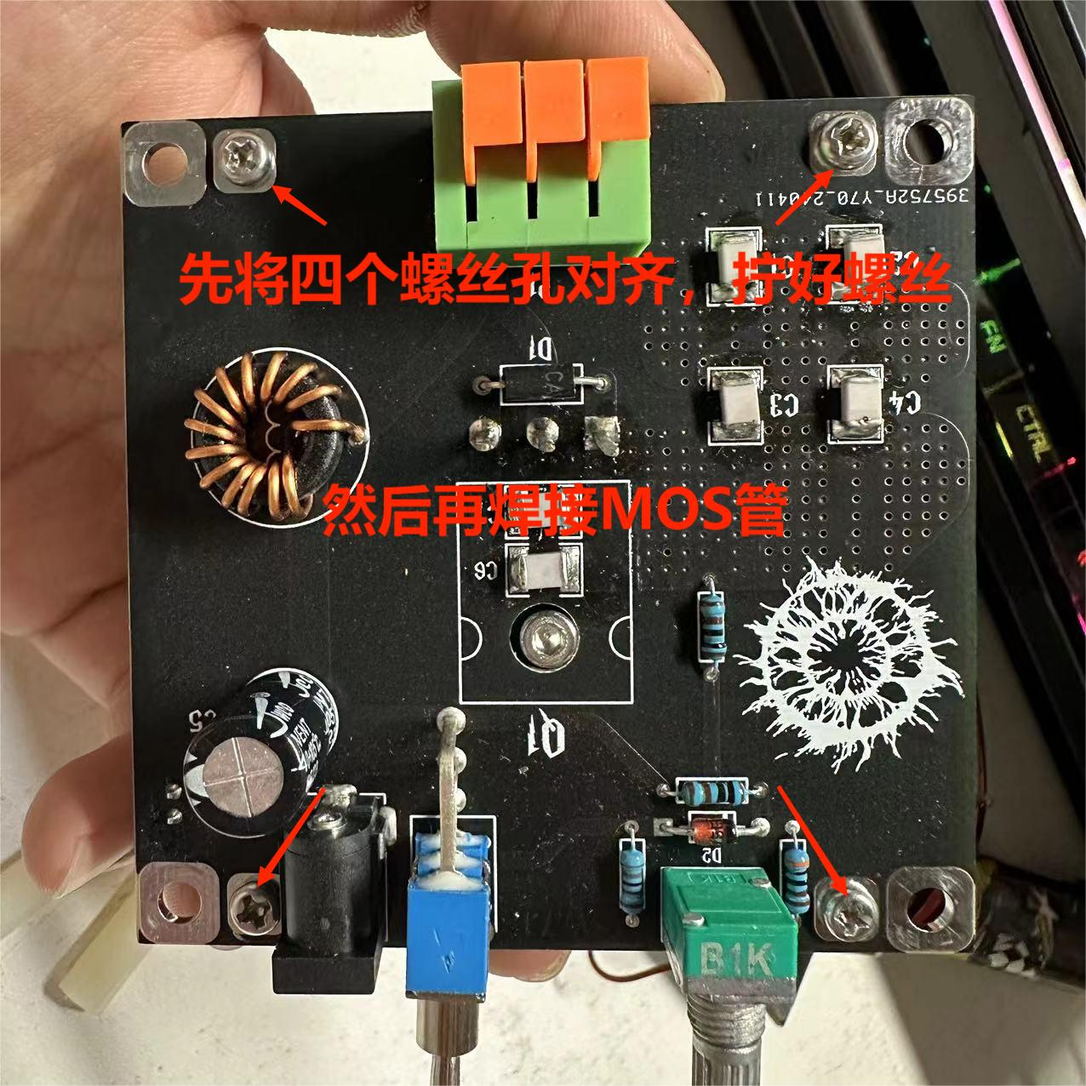
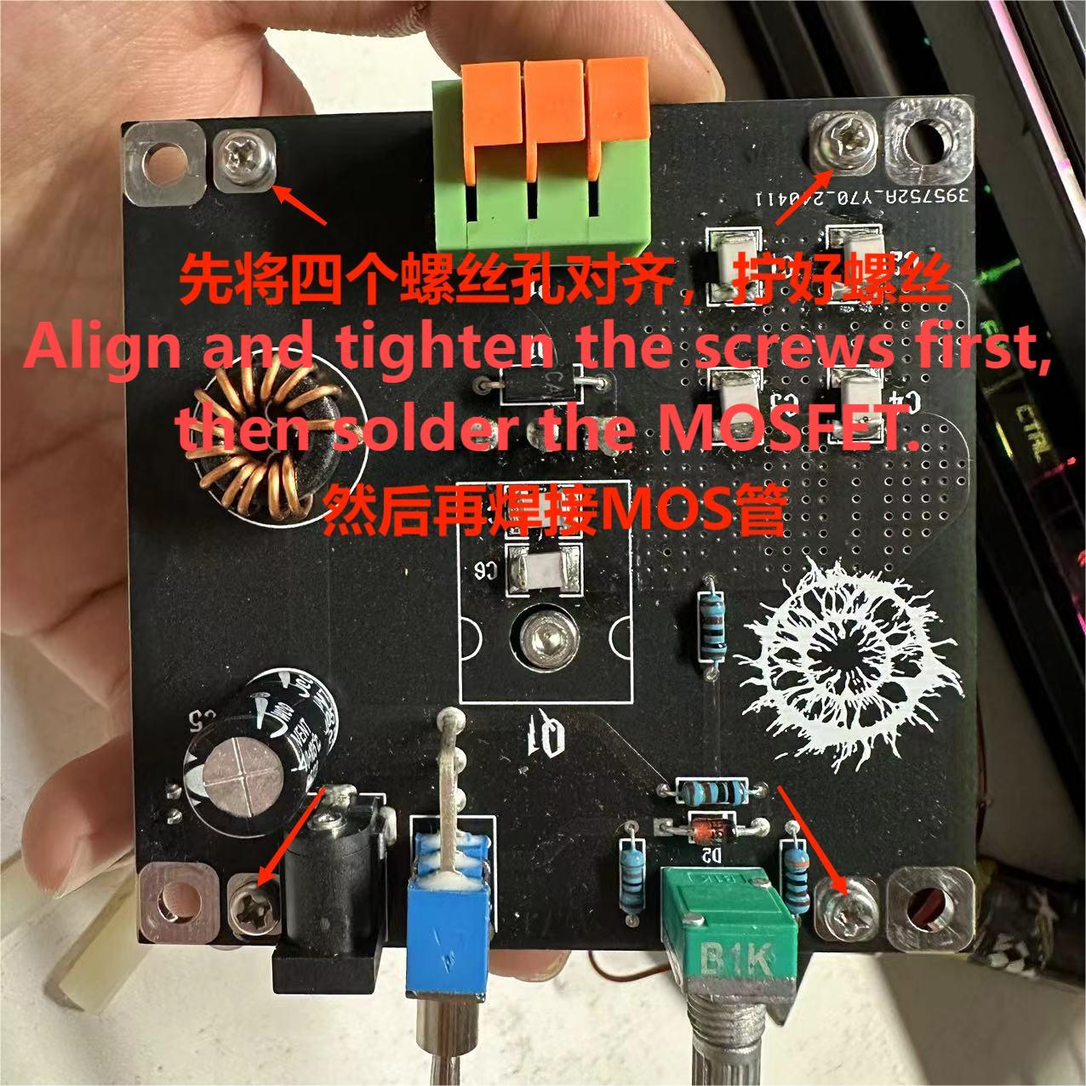
update English tutorial

Changed region(s): [[0.0, 0.2751, 0.9781, 0.4279]]

diff --git a/Documents/Tutorial_English24_7_22.md b/Documents/Tutorial_English24_7_22.md
@@ -1,200 +1,246 @@
-# Plasma Toroid Making Tutorial
+# Plasma Toroid DIY Instructions
 
-Last updated on March 1st, 2024  
+This document was updated on July 22, 2024.
 
 Author: *Diagon Alley Magic Shop*
-All parts used in this tutorial can be found at online shop ***Diagon Alley Magic Shop***
 
-[Demonstration video](https://www.bilibili.com/video/BV1YQ4y157gs)
+All components used in this document can be found in the Aliexpress store ***Diagon Alley Magic Shop***. 
 
-[JLC open source platform](https://oshwhub.com/skylake/plasmatoroid-drive-circuit) 
+[Finished product demo video 1](https://www.bilibili.com/video/BV1Lm411z7tf)
 
-QQ Group for plasma toroid open source community: 736688139
+[Finished product demo video 2](https://www.bilibili.com/video/BV12f421o7rf) 
 
+[LCEDA Open Source Platform](https://oshwhub.com/skylake/plasmatoroid-drive-circuit)
 
-<img src=../imgs/cover.jpg width=100% />
+Plasma toroid open source technology QQ group: 736688139
 
-## Copyright Notice ©
+<img src=../imgs/imgs_24_7_22\cover.jpg width=74% />
 
-This tutorial is for personal learning and making plasma toroids only. No one is allowed to modify, republish or distribute the content without the author's consent. Any commercial use of this tutorial is strictly prohibited.
+## Copyright Notice©
+
+This document is for personal learning and plasma toroid manufacturing only. Without the author's consent, no one may modify, republish, or distribute the content of this document. It is strictly prohibited to use this document for any commercial activities.
 
 ## Disclaimer
-Please read the following important safety warnings and disclaimers before using this tutorial to make a plasma toroid. By using this tutorial, you agree that you have fully understood and accepted the following terms:
+Before using this document to make a plasma toroid, please carefully read the following important safety warnings and disclaimers. Using this document means that you fully understand and agree to the following terms:
+- Dangers of plasma toroids: The glass bottle will generate high temperatures when the plasma toroid is running, and there is a risk of low-temperature burns. It is never recommended to directly touch the running glass bottle with your hands to avoid burns.
+- Magnetic field warning: The plasma toroid will generate a strong magnetic field during operation. For people wearing pacemakers and other medical devices, strong magnetic fields may affect the normal operation of the devices. We recommend that these users stay away from working plasma toroids to avoid potential health risks.
+- High voltage risk: The drive circuit of the plasma toroid will generate high voltage during operation. High voltage poses a danger of electric shock or burns. Please do not touch any components, including the primary coil, while the circuit is working to avoid electric shock or burns.
+- Component temperature: Please note that some components of the circuit may become very hot during operation, which may cause burns. When the device is running, especially after running for a long time, do not touch these components.
+- Electromagnetic interference: The plasma toroid will emit electromagnetic waves around 10MHz when running. This band will not harm the human body, but it may interfere with some electronic devices operating in this band, such as touchpads and card readers. Please keep these devices away from the working drive circuit.
 
-- Plasma toroid hazards: The glass bottle of a running plasma toroid will get very hot, posing risks of low temperature burns. Never touch the hot glass bottle directly during operation to avoid burns.
-
-- Magnetic field warning: Strong magnetic fields are generated when the plasma toroid is running. For people with pacemakers or other medical devices, the strong magnetic field may affect normal operation of the devices. We recommend these users stay away from a running plasma toroid to avoid potential health risks. 
-
-- High voltage risks: The drive circuit of the plasma toroid operates at high voltages. There are risks of electric shocks or burns at high voltages. Do not touch any components including the primary coil when the circuit is powered on to avoid shocks or burns.
-
-- Component temperature: Note that some components in the circuit can get very hot during operation, which may cause scalding. Do not touch these components when the device is running, especially after long periods of operation.
-
-- Electromagnetic interference: The plasma toroid emits electromagnetic waves around 10MHz when running. This frequency is harmless to humans, but may interfere with some electronic devices operating at this frequency band, such as touchpads and card readers. Please keep these devices away from the running drive circuit.  
-
-By using this tutorial, you agree that you understand and accept the risks, and the author is not responsible for any direct or indirect damage resulting from failure to follow the safety guidelines.  
+Using this document means that you understand and agree to bear the risks of use. The author is not responsible for any direct or indirect damages caused by not following the safety guidelines.
 
 DIY with caution, safety first!
 
-## How A Plasma Toroid Works
+## Analysis of the Working Principle of Plasma Toroids
 
-- Glow discharge phenomenon: Under certain conditions, gas glows and discharges in strong electric fields. In this process, the electrons of gas molecules get excited and transition to higher energy levels. Since these electrons at high energy levels are not stable, they will spontaneously fall back to their original low energy levels, emitting photons with energy equal to the energy gap in this process. This phenomenon is called glow discharge, and it is used in neon lights and other devices. The light emission process of a plasma toroid is similar.
+  - Glow discharge phenomenon: Under certain conditions, the gas will undergo glow discharge under the action of a strong electric field. In this process, the electrons of the gas molecules are stimulated and jump to higher energy level orbits. Since these electrons are unstable in the high-energy state, they will spontaneously fall back to the original low-energy orbit while releasing photons corresponding to the energy difference according to the law of conservation of energy. This phenomenon is called glow discharge and is applied to devices such as neon lights. The luminescence process of plasma toroids is similar to this.
 
-- Properties of plasma: Besides the common solid, liquid and gas states, plasma is another state of matter that exists in the universe. Flames contain plasma. When gas gets heated to high temperatures, collisions between molecules will strip electrons from their orbits, forming a plasma that consists of charged particles. This mixture of charged ions and electrons is electrically conductive. 
+  - Properties of plasma: In addition to the common solid, liquid, and gas states, plasma is another state of matter that exists in the universe, and flames are an example that contains plasma. When the gas is affected by high temperature, collisions between molecules will cause the outer electrons to escape their orbits, forming a plasma composed of charged particles. This charged ion mixture has electrical conductivity.
+  - Generation of toroidal electromagnetic field: By passing a high-frequency alternating current through a toroidal coil, it can be derived from Maxwell's equations that the electric field distribution around it is toroidal. We use a self-excited Class E oscillator circuit to generate an alternating current with a frequency of about 10MHz.
 
-- Generation of toroidal electromagnetic field: By passing high-frequency alternating currents through a toroidal coil, a toroidal electric field can be generated around it according to Maxwell's equations. We use a self-oscillating Class E oscillator circuit to generate AC currents around 10MHz.
+  - Generation process of plasma toroid: In a spherical glass bottle filled with low-pressure xenon gas, the xenon gas is ionized under the action of a strong electric field to form a plasma. These conductive xenon gas plasmas form a stable toroidal structure under the influence of an external toroidal electric field. In the plasma, collisions of charged particles produce glow discharge, which emits a pale purple light, making the plasma toroid visible.
 
-- Plasma toroid formation: In a spherical glass bottle filled with low-pressure xenon gas, the xenon gas gets ionized and forms a plasma in the strong electric field. These conductive xenon plasma ions and electrons form a stable toroidal structure under the influence of the applied toroidal electric field. Collisions within the plasma result in glow discharge and emit a pale purple light, making the plasma toroid visible.
+**When using and demonstrating the plasma toroid, please ensure that you understand its working principle and corresponding safety measures to ensure the safety of users.**
 
-**Please make sure you understand the working principles and associated safety measures before using or demonstrating a plasma toroid, to ensure safety.**
 
-## List of Materials Needed
+## Preparation of Materials
 
-<img src=../imgs/all_components.jpg width=80% />
+<img src=../imgs/imgs_24_4_13/compress/Fullcomponents.jpg width=88% /> 
 
-- 80mm glass bottle filled with xenon gas (can be found by searching "plasma toroid" on Taobao, larger glass balls cannot fit in this project's coil stand)
-- 1.2mm enameled wire - for winding the coil  
-- 10uH yellow toroidal inductor
-- PCB board (perfboard or Manhattan style can work as substitutes)
-- Coil stand, including base plate and 5 stand pieces
+
+- 80mm glass bottle filled with xenon gas (available in Taobao store **Diagon Alley Magic Shop**, larger glass balls cannot be installed in the bracket of this project)
+- 1.2mm enameled wire - for winding coils
+- Black ring inductor 10uH  
+- Circuit board PCB (can be made using the files in the hardware folder)
+- Coil support, including base plate and five support pieces
 - Heatsink and fan
 - MOSFET IRFP260N
-- Thermal silicone pad for MOSFET
-- 1k potentiometer
-- 1k resistor x 2
-- 2.7k, 5.6k resistors
-- 30pf ceramic capacitors x 4  
-- 4.7nF SMD capacitors x 2
-- 15V TVS diode P6KE15CA 
-- 9.1V Zener diode
-- 63V 220uf electrolytic input filter capacitors x 2
+- MOSFET heatsink silicone pad
+- Potentiometer 1k  
+- Resistor 1k * 3
+- Resistor 1.8k, 3k
+- SMD capacitor 100pf * 4
+- SMD capacitor 4.7nF * 2  
+- TVS 15V P6KE15CA
+- Voltage regulator diode 9.1V
+- Input filter capacitor Electrolytic capacitor 63V 220uf
 - Toggle switch
-- Green screw terminals - for connecting the coil
-- White fan power socket
-- DC5.5 power jack
-- Screws and nylon spacers
-- Piezo igniter harvested from a lighter (for initial ignition)
-- XL4015 current limiting module (can be skipped if using an adjustable power supply)  
-- 24v power adapter (>=4A, or use an adjustable power supply)
+- Green terminal block - for connecting coil
+- White fan socket
+- DC power interface 
+- Light emitting diode
+- Screws and nylon columns
+- Piezoelectric ceramic taken out from a lighter (for initial ignition)
+- XL4015 current limiting module (this module is not required if you have an adjustable power supply)
+- 24V power adapter (4A or above, or you can use an adjustable power supply)
 
-## Making Steps
-Difficulty: ★★★☆☆   
 
-### Tools Needed
+## Production Tutorial 
+Difficulty ★★★☆☆
+
+### Tools
 - Multimeter
-- Soldering iron  
+- Soldering iron
 - Solder wire
-- Cutter
-- Pliers
-- Hex screwdriver set
+- Utility knife
+- Diagonal pliers
+- Hex screwdriver set 
+- Tweezers (for soldering SMD capacitors)
 
-<img src=../imgs/tools.jpg width=40% />
+<img src=../imgs/tools.jpg width=50% />
 
 ### Steps
+- Prepare the five coil brackets, insert them into the base, heat up the soldering iron, and solder them in place with solder. Try to ensure that the brackets are perpendicular to the base plate. (The five coil bracket pieces need some force to fit in)
 
-- Prepare the 5 coil stand pieces, insert them into the base plate, heat up the soldering iron and solder them to fix in place. Try to keep the stands perpendicular to the base plate as much as possible. (It takes some force to insert the 5 stand pieces.)
+<img src=../imgs/imgs_24_4_13/compress/Coil1.jpg width=45% /> <img src=../imgs/imgs_24_4_13/compress/Coil2.jpg width=45% />
 
-<img src=../imgs/imgs_24_3_1/Coil0.jpg width=45% />
-<img src=../imgs/imgs_24_3_1/Coil1.jpg width=45% />
+- Bend the enameled wire according to the diameter of the coil frame, do not straighten the enameled wire, keeping the enameled wire bent helps with threading, once straightened it cannot be threaded.
 
-- Bend the enameled wire following the diameter of the coil stands, do not straighten the wire, keeping it bent helps threading it through the holes.  
+<img src=../imgs/imgs_24_4_13/compress/Coil3.jpg width=80% />
 
-<img src=../imgs/imgs_24_3_1/Coil5.jpg width=40% />
+- Thread the enameled wire through the small holes from top to bottom, a total of four turns. The holes are relatively small, and threading can be done by pushing and pulling.
 
-- Thread the enameled wire through the holes from top to bottom, 3 turns in total. The holes are small, push and pull to get it through.
+<img src=../imgs/imgs_24_4_13/compress/Coil4.jpg width=32% /> 
+<img src=../imgs/imgs_24_4_13/compress/Coil5.jpg width=32% />
+<img src=../imgs/imgs_24_4_13/compress/Coil6.jpg width=32% />
 
-<img src=../imgs/imgs_24_3_1/Coil2.jpg width=30% />
-<img src=../imgs/imgs_24_3_1/Coil3.jpg width=30% /> 
-<img src=../imgs/imgs_24_3_1/Coil4.jpg width=30% />
 
-- Make a power supply with current limiting protection (skip if you already have an adjustable power supply). Prepare a 24V power adapter and XL4015 current limiting module, cut open the power adapter cable, connect the module in series, turn the voltage adjust potentiometer on the XL4015 module fully clockwise, and turn the current limit potentiometer to 3.5A. Determine this position by: set the multimeter to 10A current range, short the output pins with the probe (this effectively shorts the output), the displayed value is the current limit of the module. Note, using a power supply without current limiting can easily burn the MOSFETs, you can skip this step if you already have an adjustable power supply. In the picture below, the potentiometer on the left adjusts output voltage, and the one on the right adjusts current limit.
-- If using an adjustable power supply, use current limiting mode (CC), set output to 24V, with 3.5A current limit.
+- Make a power supply with current limiting protection (this step can be skipped if you already have an adjustable power supply), prepare a 24V power supply and XL4015 current limiting module, cut the power cord, connect the module in series in the middle, turn the potentiometer for adjusting the output voltage of the XL4015 module clockwise to the end (there will be a clicking sound when turned to the end), and turn the current limiting potentiometer to the 3.5A position. The method to determine the position of the current limiting potentiometer is: set the multimeter to the 10A current range, insert the test leads into the 10A hole, touch the two test leads to the output (at this time, the output is shorted, there may be electric sparks but it's okay), the value displayed on the multimeter is the current limiting value of the current limiting module. Note that using a power supply without current limiting can easily burn out the MOSFET, you must connect the XL4015 module in series before connecting power. If you already have an adjustable power supply, you can skip this step. In the picture below, the potentiometer on the left side of the module is for adjusting the output voltage, and the potentiometer on the right is for adjusting the current limit. Turning clockwise increases the value.
+- If you are using an adjustable power supply, please use the current limiting mode (CC), set the output voltage to 24V, and the current limit to 3.5A.
 
-<img src=../imgs/imgs_24_3_1/XL4015.jpg width=60% />
+<img src=../imgs/imgs_24_3_1/XL4015.jpg width=64% />
 <img src=../imgs/imgs_24_3_1/power_source.jpg width=32% />
 
-- Insert all components into the PCB board according to their markings (do not install the MOSFETs yet), bend the leads to temporarily hold them in place to make soldering easier. Note, the fan power socket should be installed on the back of the PCB. 
-- It is recommended to first solder shorter components, then taller ones. For example, solder resistors, zener diodes, power sockets first, capacitors and switches last.
+- Insert components into the circuit board according to their type (do not install the MOSFET yet). For easy soldering, you can slightly bend the pins to fix them. Note that **the fan connector should be mounted on the back of the PCB, and a light-emitting diode and 1k resistor should also be soldered on the coil bracket PCB**.
+The installation positions of each component are shown in the table below.
 
-> Resistor identification:  
-> - The slightly larger ones are 1k resistors.
-> - Ones with green and blue bands are 5.6k resistors. 
-> - Ones with red and purple bands are 2.7k resistors.
+| Component Name         | Installation Position        |
+|------------------------|------------------------------|
+| 1k resistor * 3        | R1, R4, coil bracket PCB     |
+| Light emitting diode   | coil bracket PCB             |
+| 3k resistor            | R2                           |
+| 1.8k resistor          | R3                           |
+| Voltage regulator diode| D2                           |
+| TVS (black)            | D1                           |
+| Green terminal block   | P1                           |
+| White terminal block   | Q3 (mounted on the back)     |
+| 220uf electrolytic cap | C5                           |
+| 100pf capacitor * 4    | C1, C2, C3, C4               |
+| 4.7nf capacitor * 2    | C6, C7                       |
+| 10uH inductor          | L1                           |
+| IRFP260                | Q1 (do not install this yet) |
+| Switch                 |                              |
+| DC5525 black power jack|                              |
+| B1K single potentiometer |                            |
 
-<img src=../imgs/imgs_24_3_1/Solder0.jpg width=40% />
+- It is recommended to solder the shorter components first, then the taller components, such as soldering the SMD capacitors, resistors, voltage regulators, terminal blocks, etc. first, and finally soldering the electrolytic capacitors and switch. If you have no soldering experience, be sure to search for soldering tutorials on Bilibili to learn first. According to historical statistics, 60% of people who had problems after making it were due to poor contact between components and PCB caused by not mastering the correct soldering method.
+  
+  > Resistor identification 
+  >  - 1k resistor has a brown line
+  >	 - 1.8k resistor has a brown line and a gray line  
+  >	 - 3k resistor has an orange line
+  >	 If you really can't tell them apart, just measure with a multimeter ^_^
 
-- Be very careful of the high temperature of the soldering iron when soldering, **watch out for burns**.
+  > Capacitor identification
+  >  - 4.7nF capacitors are relatively thinner
+  >	 - 220pF/100pF capacitors are relatively thicker
+  >  - For resonant capacitors, you can choose two 220pF or four 100pF
 
-- After all components are soldered, clip the leads. Try to keep the solder joints full and rounded, start clipping from the base when removing leads.
+  > Diode direction identification
+  >  - The black TVS is non-directional
+  >	 - The red voltage regulator diode needs to be directional, the black line on the voltage regulator diode should match the white line position on the PCB silkscreen.
 
-<img src=../imgs/imgs_24_3_1/Solder1.jpg width=40% />
+  > Some friends may not know how to solder SMD components, you can search for SMD component soldering tutorials on Bilibili to learn. Simply put, solder one side first to fix the SMD component, then solder the other side.
+  >【How to quickly solder two-pin SMD components? What are the precautions? Master the skills in a few minutes - Bilibili】 https://b23.tv/XZ3q8Bh
 
-- Screw copper spacers into the 4 holes around the heatsink.
+  > Be sure to pay attention to the direction of the electrolytic capacitor, soldering it backwards may cause intense heating or even explosion. The longer leg of the electrolytic capacitor is the positive electrode, and the side with the stripe mark is the negative electrode. Please refer to the picture below to install the electrolytic capacitor correctly.
 
-<img src=../imgs/imgs_24_3_1/heatsink0.jpg width=40% />
+<img src=../imgs/imgs_24_7_22\assembled_front.jpg width=70% />
 
-- Install the MOSFET. Place the MOSFET with the writing facing **up**, put a silicone pad on the underside and screw it onto the heatsink, with the **leads facing down**. The left, center and right leads are drain, gate and source respectively.
+- When soldering, **be careful of the high temperature of the soldering iron to avoid burns.**
 
-<img src=../imgs/imgs_24_3_1/heatsink1.jpg width=40% /> 
+- After all components are soldered, cut off the pins. Please try to ensure that the solder joints are full and smooth, and start from the root when removing the pins.
 
-- Bend the MOSFET leads and insert into the PCB, **first align the PCB and heatsink holes and screw in place before soldering**, then solder the MOSFET. 
+<img src=../imgs/imgs_24_4_13/assemble_back.jpg width=70% />
 
-<img src=../imgs/imgs_24_3_1/assemble0.jpg width=40% />
+- Screw 6mm copper columns (or 6mm nylon columns) into the screw holes around the heatsink.
 
-- Mount the fan, the connection order of all layers is shown below, fan should blow air towards the heatsink (upwards).
+<img src=../imgs/imgs_24_4_13/compress/heatsink0.jpg width=60% />
 
-<img src=../imgs/imgs_24_3_1/fan0.jpg width=30% />
-<img src=../imgs/imgs_24_3_1/fan1.jpg width=30% />
-<img src=../imgs/imgs_24_3_1/fan2.jpg width=30% />
+- Install the MOSFET. Place the side of the MOSFET with text **facing up**, pad the other side with a silicone pad and fix it on the heatsink with screws, with the pins **facing downward**. At this time, the pins from left to right are G, D, and S poles respectively.
 
-- Use screws to mount the coil stand onto the top, with the two coil wires going into the green screw terminals.
+<img src=../imgs/imgs_24_4_13/compress/heatsink1.jpg width=40% />
 
-<img src=../imgs/imgs_24_3_1/assemble1.jpg width=40% />
+<img src=../imgs/imgs_24_4_13/compress/heatsink2.jpg width=45% />
 
-- Cut the enameled wires to appropriate length to plug into the terminals.   
-- Scrape off the enamel coating at the ends with a knife to expose the copper.
-- **Make sure to completely remove the enamel, otherwise it can cause bad contact and prevent operation!** 
+- Bend the pins and insert them into the PCB. **First align the holes of the PCB and the heatsink to ensure that the four screws can be tightened**, then solder the MOSFET.
 
-<img src=../imgs/imgs_24_3_1/Coil6.jpg width=40% />
+<img src=../imgs/imgs_24_4_13/assemble_new.jpg width=60% />
 
-- Insert the two coil wires into terminals 1 and 3 of the green screw terminals (skip the middle hole), plug the fan power wire into the fan socket at the back of the PCB.
+- Fix the fan. The connection of all layers is shown in the figure below. The fan's airflow is blowing towards the heatsink (blowing upward).
 
-- Double check all connections before powering up o(* ̄▽ ̄*)ブ
+<img src=../imgs/imgs_24_4_13/compress/fan1.jpg width=30% />
 
-- For adjustable power supply, use current limiting mode (CC), set output to 24V, with 3.5A current limit.  
-- Place on the glass bottle with the potentiometer turned fully counter-clockwise.
+<img src=../imgs/imgs_24_4_13/compress/fan2.jpg width=30% />
 
-- Carefully read the safety guidelines before powering on:
-  > Stay away from the coil when circuit is running, the high temperature can cause burns.   
+<img src=../imgs/imgs_24_4_13/compress/fan3.jpg width=30% />
 
-  > The bottle can be rotated, but it also gets hot. Be careful, keep hands at least 1cm away from coil when rotating bottle.
 
-  > Do not hold bottle in one hand and turn potentiometer on circuit with the other, as high voltage static on bottle can damage circuit.
+- Use screws to mount the coil bracket to the top, with the two wires facing the green coil terminal block.
 
-  > Circuit will get hot, do not run for more than 2 minutes continuously.   
+<img src=../imgs/imgs_24_4_13/compress/assemble3.jpg width=40% />
+<img src=../imgs/imgs_24_4_13/compress/Assemble2.jpg width=48% />
 
-  > Turn off switch and disconnect power after use.
 
-- After reading safety guidelines, plug in power adapter and flip power switch, fan should start spinning. 
+- Cut the enameled wire appropriately so that it can be inserted into the terminal block.
+- Use a utility knife to scrape off the enamel at the end of the wire to expose the copper core inside the enameled wire.
+- **Note: Be sure to scrape the enamel at the end of the wire clean, otherwise poor contact may prevent it from working!**
 
-- Slowly turn potentiometer clockwise, circuit should start working around 80% into the rotation range. Use piezo igniter to ignite a ring when it starts working. If unable to ignite, turn potentiometer slightly more clockwise and try again.
+<img src=../imgs/imgs_24_4_13/compress/Assemble1.jpg width=60% />
 
+
+
+- Insert the two wires of the coil into pins 1 and 3 of the green terminal block (the middle hole is not used), and insert the fan power cord into the fan interface on the back of the PCB.
+
+- After confirming that all parts are properly connected again, you can prepare to power on o(*￣▽￣*)ブ
+
+- If you are using an adjustable power supply, please use the current limiting mode (CC), set the output voltage to 24V, and the current limit to 3.5A.
+- Put on the bottle and make sure the potentiometer is at the maximum counterclockwise position.
+
+- Before powering on, please carefully read the safety instructions:
+  >  Stay away from the coil when the circuit is working, as the high temperature of the coil may cause burns.
+
+  >  You can rotate the bottle, but the bottle will also heat up. Be careful and keep your hands away from the coil (at least 1cm away) when rotating the bottle.
+
+  >	 You can turn the potentiometer while the circuit is working, but do not hold the bottle with one hand and touch the potentiometer on the circuit with the other hand, because the high-voltage static electricity on the bottle can damage the circuit.
+
+  >	 The circuit will heat up. It is not recommended to run the circuit for a long time. It is recommended to work continuously for no more than two minutes.
+
+  >	 After use, remember to turn off the switch and disconnect the power supply.
+
+- After ensuring that you have read the safety instructions, plug in the power supply and turn on the switch. At this time, the fan should start spinning.
+
+- Turn the potentiometer clockwise. When it is turned about halfway, the circuit will start working. When the circuit starts working, the LED next to the coil will light up. At this point, use a lighter to point at the bottle and click it to generate the toroid. If the lighter fails to generate the toroid, you can turn the potentiometer clockwise a little more and try again.
+  
 <img src=../imgs/imgs_24_3_1/excite.jpg width=40% />
+
 <img src=../imgs/imgs_24_3_1/ring.jpg width=40% />
 
-- Sometimes the bottle glows white without forming a ring (shown below). Adjust bottle position and ignite again, it should correct after a few attempts.  
-
+- Sometimes, your bottle may glow white without generating a toroid (as shown below). Adjusting the bottle position and re-igniting it a few times usually fixes it.
 <img src=../imgs/imgs_24_3_1/white.jpg width=40% />
 
-- After a ring forms, slightly adjusting the potentiometer changes the shape. If ring disappears, simply ignite again to bring it back.
 
-<img src=../imgs/imgs_24_3_1/ring1.jpg width=40% />
+- After the toroid is generated, slightly turning the potentiometer will cause some changes in the shape of the toroid. If the toroid disappears, re-igniting it will generate it again.
 
-### Circuit Schematic
-Since this project's hardware is still evolving, schematic is for reference only, actual circuit should follow the PCB.
+<img src=../imgs/imgs_24_4_13/Xe2.jpg width=70% />
+
+### Reference Circuit Diagram
+Since the hardware of this project is still being updated, the circuit diagram is for reference only. The actual circuit should be based on the PCB.
 <img src=../imgs/imgs_24_3_1/sch.jpg width=80% />
 
 
 ### FAQ
-For any other questions, join QQ Group 736688139 where all project developers are active and can provide the quickest answers.
+If you have any questions, join the QQ group 736688139. All project developers are in the group, and you can get answers at the fastest speed.
 
-Credits: Tate McAluney
+Acknowledgments: Tate McAluney

diff --git a/Documents/Tutorial24_7_22.md b/Documents/Tutorial24_7_22.md
@@ -1,6 +1,6 @@
 # 等离子环制作说明
 
-此文档更新于2024年4月13日
+此文档更新于2024年7月22日
 
 作者 *对角巷魔法商店*
 
